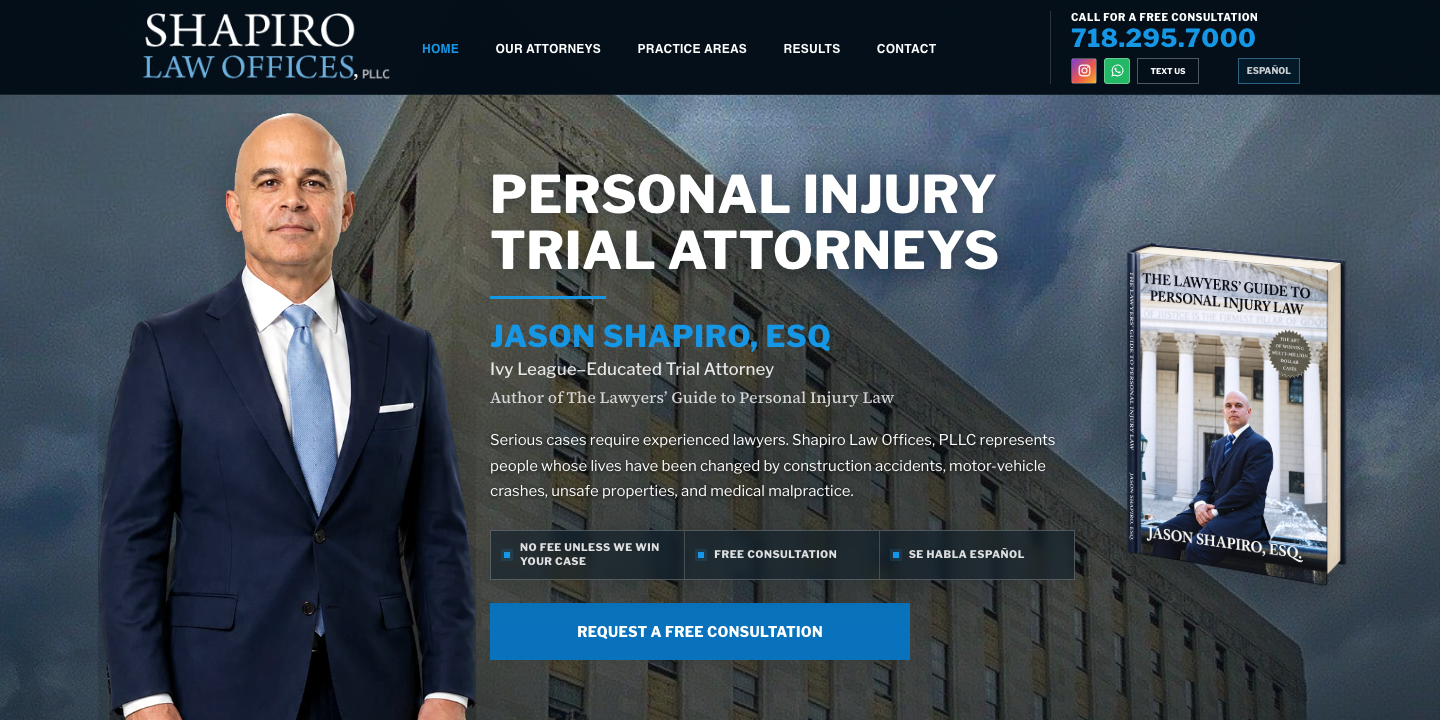
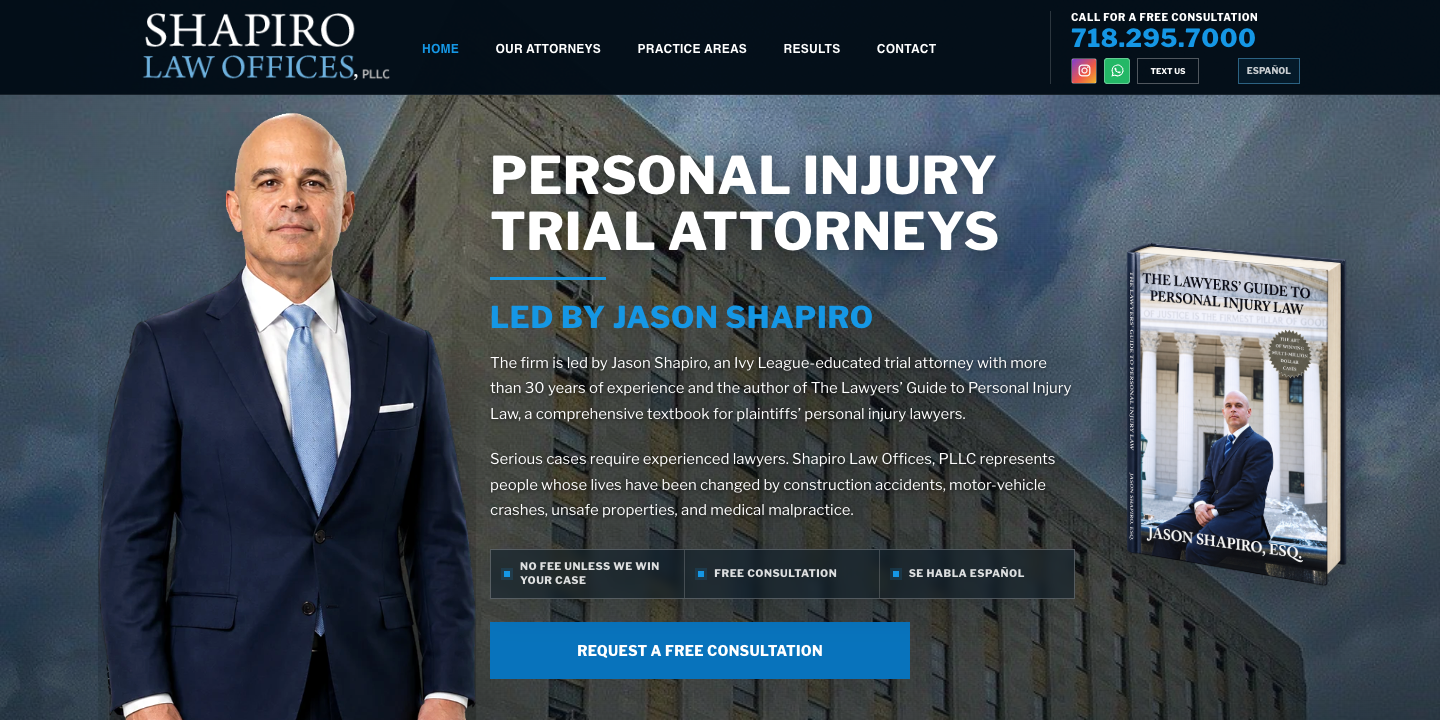
Replace hero credential block with full leadership biography

Changed region(s): [[0.3438, 0.2139, 0.75, 0.9472]]

diff --git a/index.html b/index.html
@@ -12,7 +12,7 @@
 <link href="css/styles.css?v=20260917-1" rel="stylesheet"/>
 <link href="https://4mphz.github.io/shapiro-law-redesign-concept/index.html" hreflang="en" rel="alternate"/>
 <link href="https://4mphz.github.io/shapiro-law-redesign-concept/es/index.html" hreflang="es" rel="alternate"/>
-<link href="css/approved-copy.css?v=20260927-3" rel="stylesheet"/></head>
+<link href="css/approved-copy.css?v=20260927-4" rel="stylesheet"/></head>
 <body class="client-home client-document-copy client-september-copy">
 <a class="skip-link" href="#main-content">Skip to main content</a>
 <header class="site-header client-header" id="site-header">
@@ -60,9 +60,8 @@
 <div class="client-hero__copy">
 <h1>Personal Injury Trial Attorneys</h1>
 <span class="client-rule"></span>
-<h2>Jason Shapiro, Esq</h2>
-<p class="client-hero__credential">Ivy League–Educated Trial Attorney</p>
-<p class="client-hero__author">Author of The Lawyers’ Guide to Personal Injury Law</p>
+<h2>Led by Jason Shapiro</h2>
+<p class="client-hero__biography">The firm is led by Jason Shapiro, an Ivy League-educated trial attorney with more than 30 years of experience and the author of The Lawyers’ Guide to Personal Injury Law, a comprehensive textbook for plaintiffs’ personal injury lawyers.</p>
 <p class="client-hero__description">Serious cases require experienced lawyers. Shapiro Law Offices, PLLC represents people whose lives have been changed by construction accidents, motor-vehicle crashes, unsafe properties, and medical malpractice.</p>
 <ul aria-label="Client promises" class="client-hero__promises">
 <li>No Fee Unless We Win Your Case</li>
@@ -99,7 +98,7 @@
 <span>Super Lawyers Selectee</span>
 </div>
 </div>
-</section><section class="client-section client-september-intro"><div class="client-shell"><h2>Led by Jason Shapiro</h2><p>The firm is led by Jason Shapiro, an Ivy League-educated trial attorney with more than 30 years of experience and the author of The Lawyers’ Guide to Personal Injury Law, a comprehensive textbook for plaintiffs’ personal injury lawyers.</p></div></section>
+</section>
 <section class="client-section client-results">
 <div class="client-shell">
 <div class="client-results__heading">

diff --git a/css/approved-copy.css b/css/approved-copy.css
@@ -87,6 +87,7 @@
 .client-home .client-contact > .client-shell { text-align:center; }
 .client-home .client-contact p { margin-inline:auto; }
 .client-home .client-hero__description { color:#fff; font-size:15px; line-height:1.7; margin:20px 0; text-shadow:0 1px 4px rgba(0,0,0,.8); }
+.client-home .client-hero__biography { color:#fff; font-size:15px; line-height:1.7; margin:16px 0; text-shadow:0 1px 4px rgba(0,0,0,.8); }
 .client-home .client-contact + .client-cta { padding-block:48px; }
 .client-hero__book img, .client-book__art img, .client-book-feature__art img {
  transform:none; filter:drop-shadow(0 14px 18px rgba(0,0,0,.18)); background:transparent; border:0; box-shadow:none;
@@ -126,6 +127,11 @@
  .client-home .client-hero__description { grid-column:1 / -1; grid-row:6; margin:16px 0 0; }
  .client-home .client-hero__copy:has(.client-hero__description) .client-hero__promises { grid-row:7; }
  .client-home .client-hero__copy:has(.client-hero__description) > .client-btn { grid-row:8; }
+ .client-home .client-hero__inner:has(.client-hero__biography) .client-hero__book { grid-row:3 / 6; align-self:center; width:120px; }
+ .client-home .client-hero__biography { grid-column:1 / -1; grid-row:6; margin:16px 0 0; }
+ .client-home .client-hero__copy:has(.client-hero__biography) .client-hero__description { grid-row:7; }
+ .client-home .client-hero__copy:has(.client-hero__biography) .client-hero__promises { grid-row:8; }
+ .client-home .client-hero__copy:has(.client-hero__biography) > .client-btn { grid-row:9; }
  .client-home .client-book__inner { gap:24px; }
  .client-home .client-book__art { width:210px; min-height:0; }
  .client-home .client-book__copy h2 { font-size:30px; line-height:1.2; }

diff --git a/es/index.html b/es/index.html
@@ -12,7 +12,7 @@
 <link href="../css/styles.css?v=20260917-1" rel="stylesheet"/>
 <link href="https://4mphz.github.io/shapiro-law-redesign-concept/index.html" hreflang="en" rel="alternate"/>
 <link href="https://4mphz.github.io/shapiro-law-redesign-concept/es/index.html" hreflang="es" rel="alternate"/>
-<link href="../css/approved-copy.css?v=20260927-2" rel="stylesheet"/></head>
+<link href="../css/approved-copy.css?v=20260927-4" rel="stylesheet"/></head>
 <body class="client-home client-document-copy">
 <a class="skip-link" href="#main-content">Saltar al contenido principal</a>
 <header class="site-header client-header" id="site-header">
@@ -58,9 +58,8 @@
 <div class="client-hero__copy">
 <h1>Abogados de Lesiones Personales</h1>
 <span class="client-rule"></span>
-<h2>Jason Shapiro, Esq</h2>
-<p class="client-hero__credential">Abogado Litigante Educado en la Ivy League</p>
-<p class="client-hero__author">Autor de The Lawyers’ Guide to Personal Injury Law</p>
+<h2>Dirigido por Jason Shapiro</h2>
+<p class="client-hero__biography">El bufete está dirigido por Jason Shapiro, un abogado litigante formado en una universidad de la Ivy League, con más de 30 años de experiencia y autor de The Lawyers’ Guide to Personal Injury Law, un libro de texto integral para abogados que representan a demandantes en casos de lesiones personales.</p>
 <ul aria-label="Compromisos con el cliente" class="client-hero__promises">
 <li>¡No Paga Si No Ganamos Su Caso!</li>
 <li>Consultas Gratis</li>

diff --git a/scripts/september-copy.py b/scripts/september-copy.py
@@ -132,6 +132,13 @@ templates = {name:original(name) for name in ['index.html','about.html','contact
 
 def shared(soup, relative, english=True):
     prefix = '../' * (len(Path(relative).parts)-1)
+    hero=soup.select_one('.client-hero__copy')
+    if hero:
+        hero.select_one('h2').string='Led by Jason Shapiro' if english else 'Dirigido por Jason Shapiro'
+        for old in hero.select('.client-hero__credential, .client-hero__author, .client-hero__biography'):
+            old.decompose()
+        bio='The firm is led by Jason Shapiro, an Ivy League-educated trial attorney with more than 30 years of experience and the author of The Lawyers’ Guide to Personal Injury Law, a comprehensive textbook for plaintiffs’ personal injury lawyers.' if english else 'El bufete está dirigido por Jason Shapiro, un abogado litigante formado en una universidad de la Ivy League, con más de 30 años de experiencia y autor de The Lawyers’ Guide to Personal Injury Law, un libro de texto integral para abogados que representan a demandantes en casos de lesiones personales.'
+        hero.select_one('h2').insert_after(node(soup,'p',bio,'client-hero__biography'))
     for n in soup.select('[data-copy-id]'):
         del n['data-copy-id']
     for img in soup.select('img[src*="lawyers-guide-book"]'):
@@ -165,7 +172,7 @@ def shared(soup, relative, english=True):
             n.decompose()
     style=soup.select_one('link[href*="approved-copy.css"]')
     if style:
-        style['href']=prefix+'css/approved-copy.css?v=20260927-3'
+        style['href']=prefix+'css/approved-copy.css?v=20260927-4'
     if english:
         for a in soup.select('.client-btn[href*="contact.html"]'):
             a.string='Request a Free Consultation'
@@ -212,17 +219,11 @@ for page in pages:
         # Put source copy into the approved sections, not a replacement page layout.
         strip=soup.select_one('.client-source-strip')
         if strip: strip.decompose()
-        section=node(soup,'section',cls='client-section client-september-intro')
-        shell=node(soup,'div',cls='client-shell')
-        section.append(shell)
         hero_intro=node(soup,'div')
         render(soup,hero_intro,g['New York Personal Injury Trial Attorneys'])
         for paragraph in list(hero_intro.children):
             paragraph['class']=['client-hero__description']
             soup.select_one('.client-hero__promises').insert_before(paragraph)
-        shell.append(node(soup,'h2','Led by Jason Shapiro'))
-        render(soup,shell,g['Led by Jason Shapiro'])
-        soup.select_one('.client-proof').insert_after(section)
         settext(soup,'.client-results h2','Results That Changed Lives')
         settext(soup,'.client-results .client-intro',clean(g['Proven Results. Personal Attention.'][0]['text']))
         settext(soup,'.client-results .client-text-link','View More Case Results')
